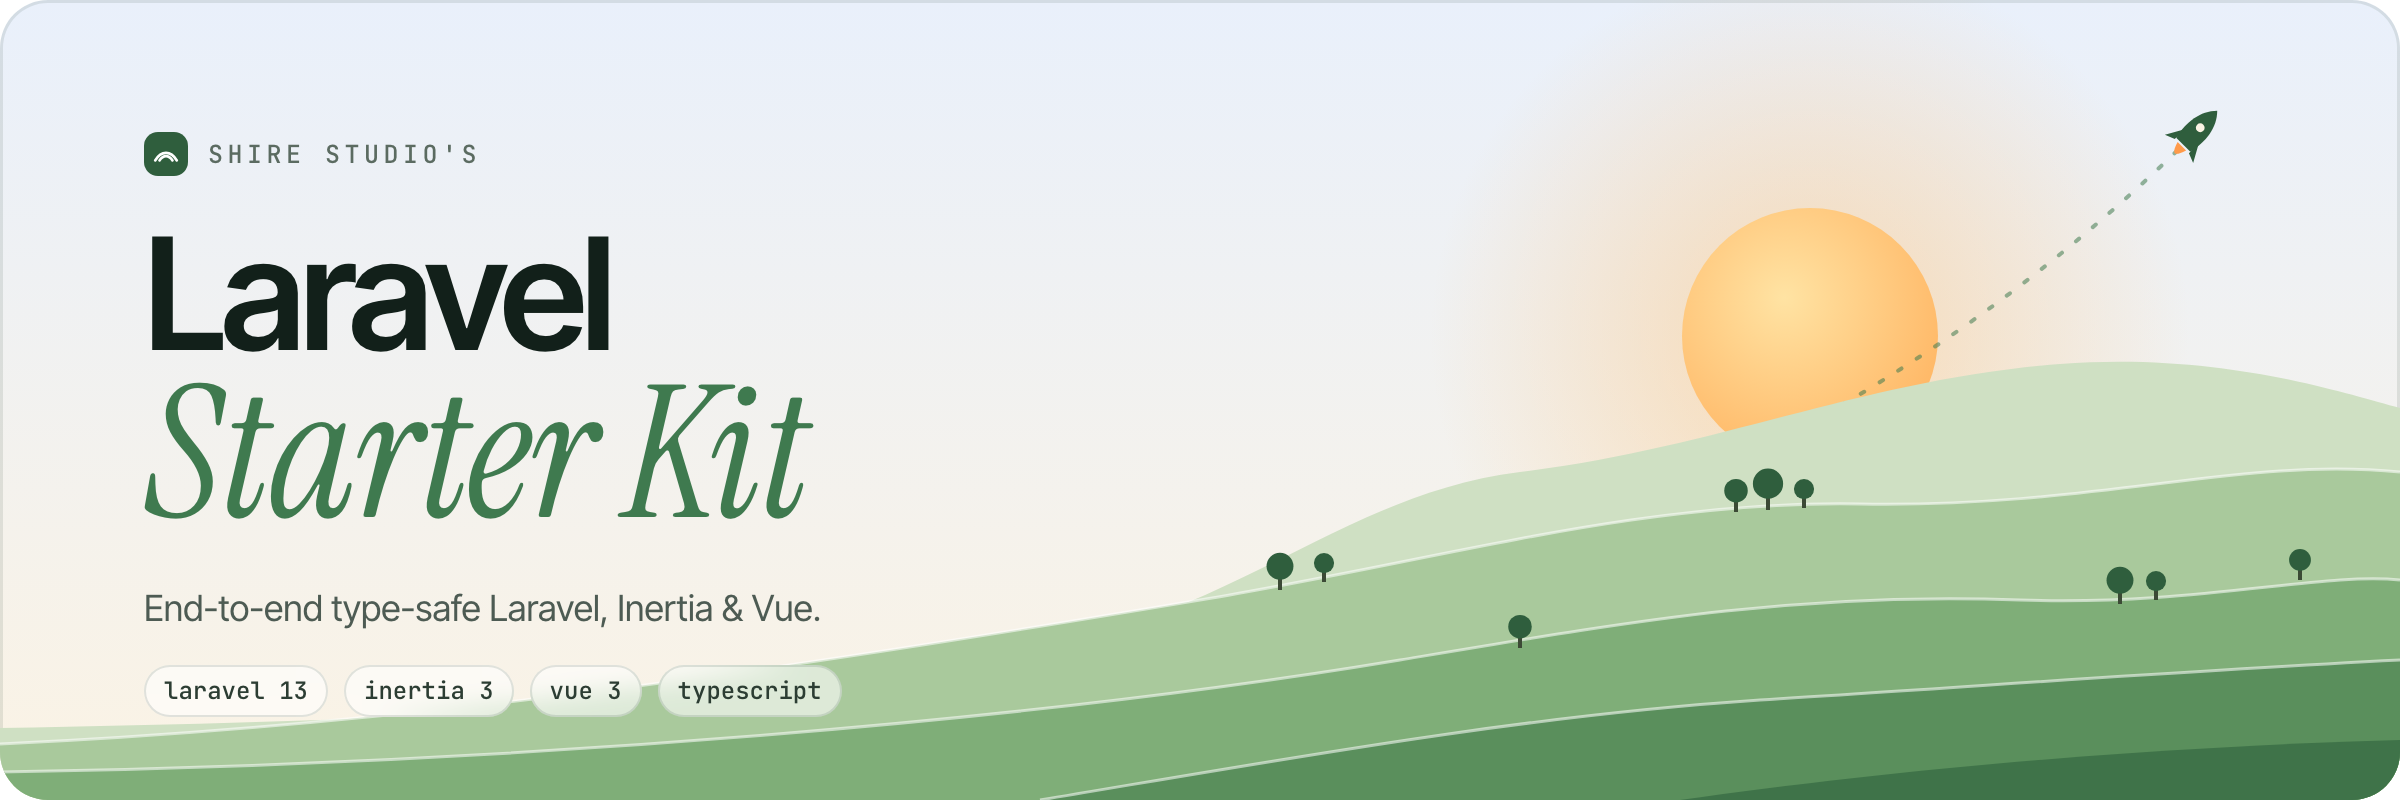
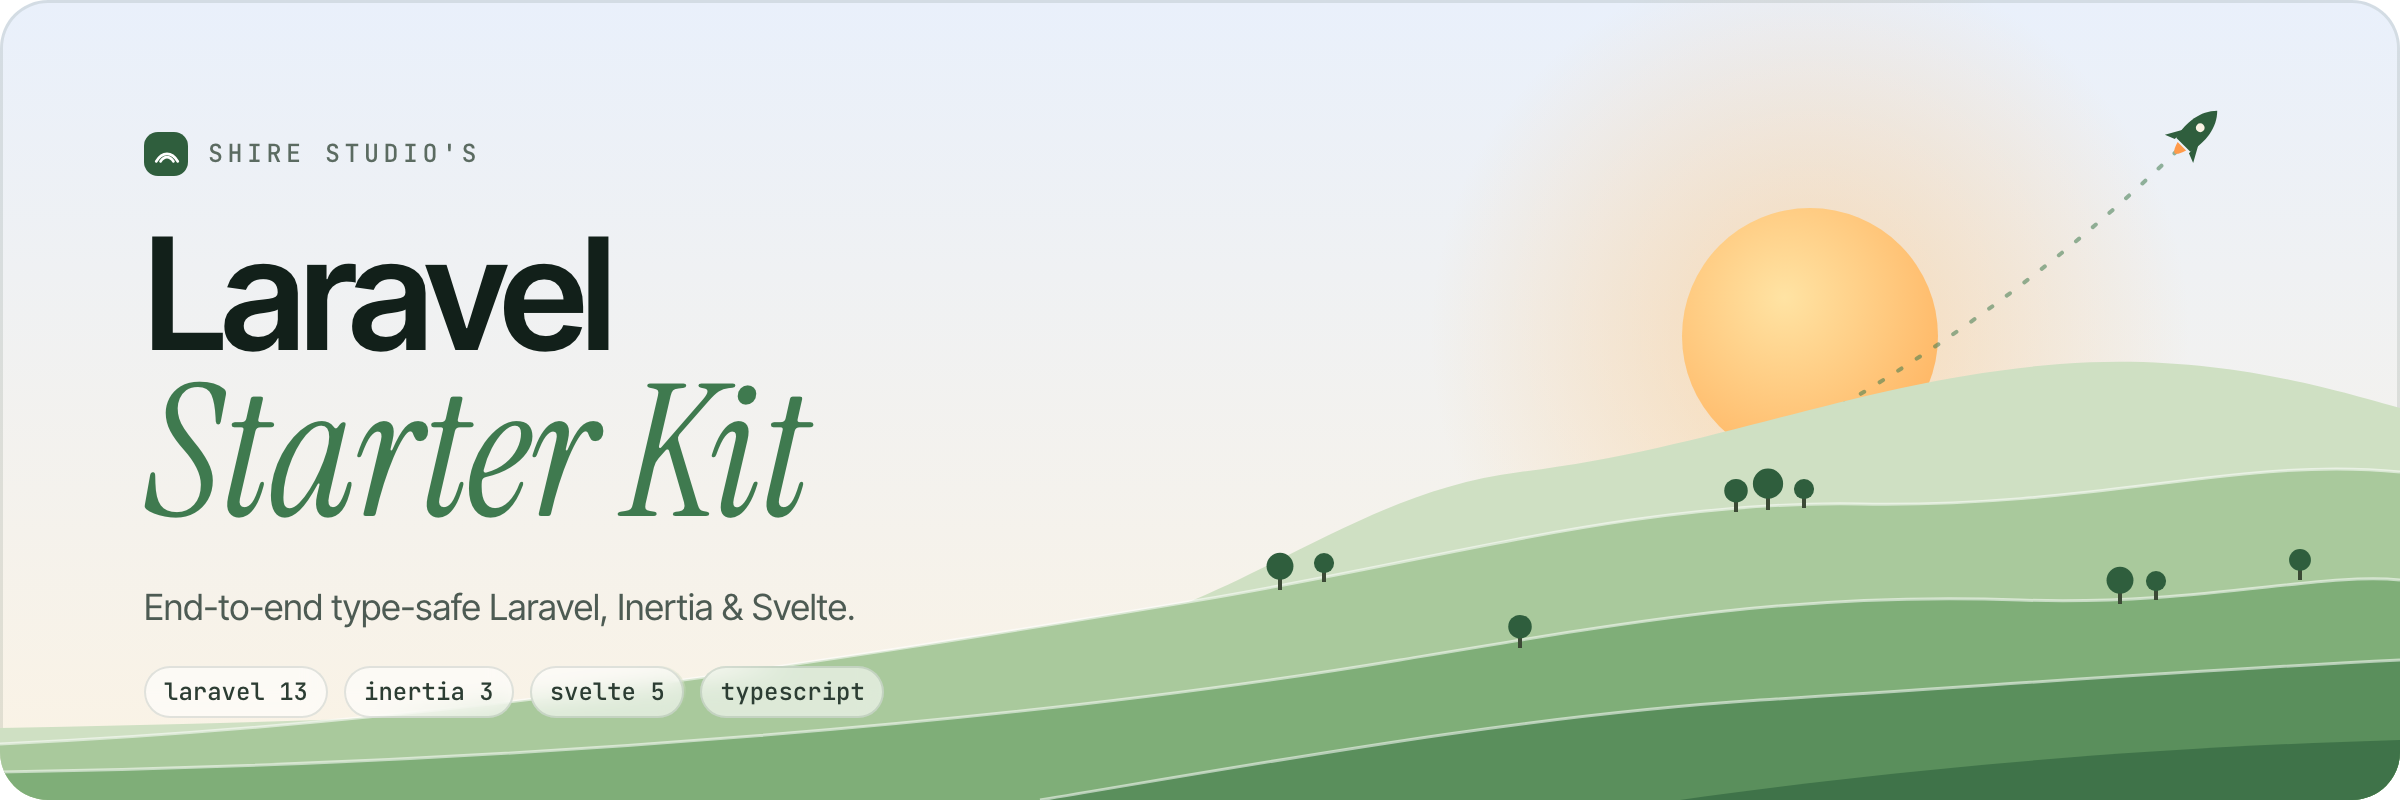
Merge pull request #1 from shire-studio/docs/per-kit-readmes-and-art
docs: give every kit the CLI README and its own artwork

Posted from Hobbiton: https://github.com/shire-studio/hobbiton/commit/cdd084a08187e6eee601ddf4f640897f741b3669

diff --git a/art/header.html b/art/header.html
@@ -125,8 +125,8 @@
       Shire Studio's
     </div>
     <h1>Laravel<em>Starter Kit</em></h1>
-    <p class="tagline">End-to-end type-safe Laravel, Inertia &amp; Vue.</p>
-    <div class="stack"><span>laravel 13</span><span>inertia 3</span><span>vue 3</span><span>typescript</span></div>
+    <p class="tagline">End-to-end type-safe Laravel, Inertia &amp; Svelte.</p>
+    <div class="stack"><span>laravel 13</span><span>inertia 3</span><span>svelte 5</span><span>typescript</span></div>
   </div>
 </div>
 <script>

diff --git a/README.md b/README.md
@@ -1,6 +1,6 @@
 <picture>
     <source media="(prefers-color-scheme: dark)" srcset="art/header-dark.png">
-    <img alt="Logo for Laravel Starter Kit" src="art/header-light.png">
+    <img alt="Logo for the Svelte 5 Laravel Starter Kit" src="art/header-light.png">
 </picture>
 
 <br/>
@@ -45,10 +45,35 @@ The Vue, React and Svelte kits share the same PHP application line for line. Onl
 >
 > SQLite is used by default for the database, sessions, cache and queue.
 
+The recommended way to start a project is the [starter kit CLI](https://github.com/shire-studio/laravel-starter-kit-cli). It works like the `laravel` installer, and it can also bring newer starter kit releases into your project later (see [Keeping Your Project Up to Date](#keeping-your-project-up-to-date)).
+
+Install it globally with Composer:
+
+```bash
+composer global require shire-studio/laravel-starter-kit-cli
+```
+
+This installs the `shire-kit` command. Make sure Composer's global bin directory is on your `PATH` (run `composer global config bin-dir --absolute` to find it). Then create a project:
+
+```bash
+shire-kit new example-app --kit=svelte
+cd example-app
+```
+
+This creates `example-app` from the latest stable release of this starter kit. You'll be asked whether to install and build the frontend with pnpm, and whether to initialise a git repository. Pass `--pnpm` or `--no-pnpm` and `--git` or `--no-git` to skip the questions, or `--force` to overwrite an existing directory.
+
+If you'd rather not install the CLI, `composer create-project` works too:
+
 ```bash
 composer create-project shire-studio/laravel-starter-kit-svelte --prefer-dist example-app
 cd example-app
+```
 
+Either way, the project gets a `.starter-kit.json` file recording the kit and release it was created from. Commit it, because the CLI reads it to work out which starter kit changes your project hasn't received yet.
+
+Then set it up:
+
+```bash
 # Install dependencies, create .env, generate a key, migrate and build assets
 composer setup
 
@@ -57,6 +82,28 @@ composer dev
 ```
 
 Pest browser tests need Playwright: `pnpm exec playwright install`.
+
+## Keeping Your Project Up to Date
+
+Once you've built on the starter kit, you can't just pull in new releases, because your project has drifted from it. The CLI's `update` command handles this. Run it from the root of your project:
+
+```bash
+shire-kit update
+```
+
+The project must be in a git repository with no uncommitted changes, so everything the update does can be reviewed with `git diff` and undone with `git restore`. It can live inside a larger repository, such as a monorepo.
+
+The CLI compares the release in your `.starter-kit.json` with the latest one and writes the changes to `.starter-kit-update/` (excluded from git). It then hands them to a coding agent of your choice, which merges them into your code, keeps your own changes and fixes anything the update breaks. Claude Code, Codex, Gemini CLI, OpenCode and Cursor are supported, and only the ones you have installed are offered. Pass `--agent=<agent>` to skip the question.
+
+When the agent is done, the CLI shows the changed files and asks whether to mark the project as updated, which bumps the version in `.starter-kit.json`. Nothing is committed for you. Review the changes, run `composer test`, then commit.
+
+A few things worth knowing:
+
+- **Removed features stay removed.** If you deleted part of the starter kit, such as authentication, the update won't bring it back. The CLI can record these in `.starter-kit.json` so future updates remember them.
+- **You can skip the agent.** `--agent=none` only prepares `.starter-kit-update/`. Follow `.starter-kit-update/PROMPT.md` yourself or give it to any agent you like.
+- **Older projects** without a `.starter-kit.json` can still be updated. Pass `--kit=svelte` (or pick the kit when asked), and the agent works out which release the project started from and asks you to confirm it.
+
+Update regularly. Small, frequent updates are much easier to review than one large jump across several releases. See the [CLI README](https://github.com/shire-studio/laravel-starter-kit-cli#update-an-existing-project) for every option.
 
 ## Available Commands
 
